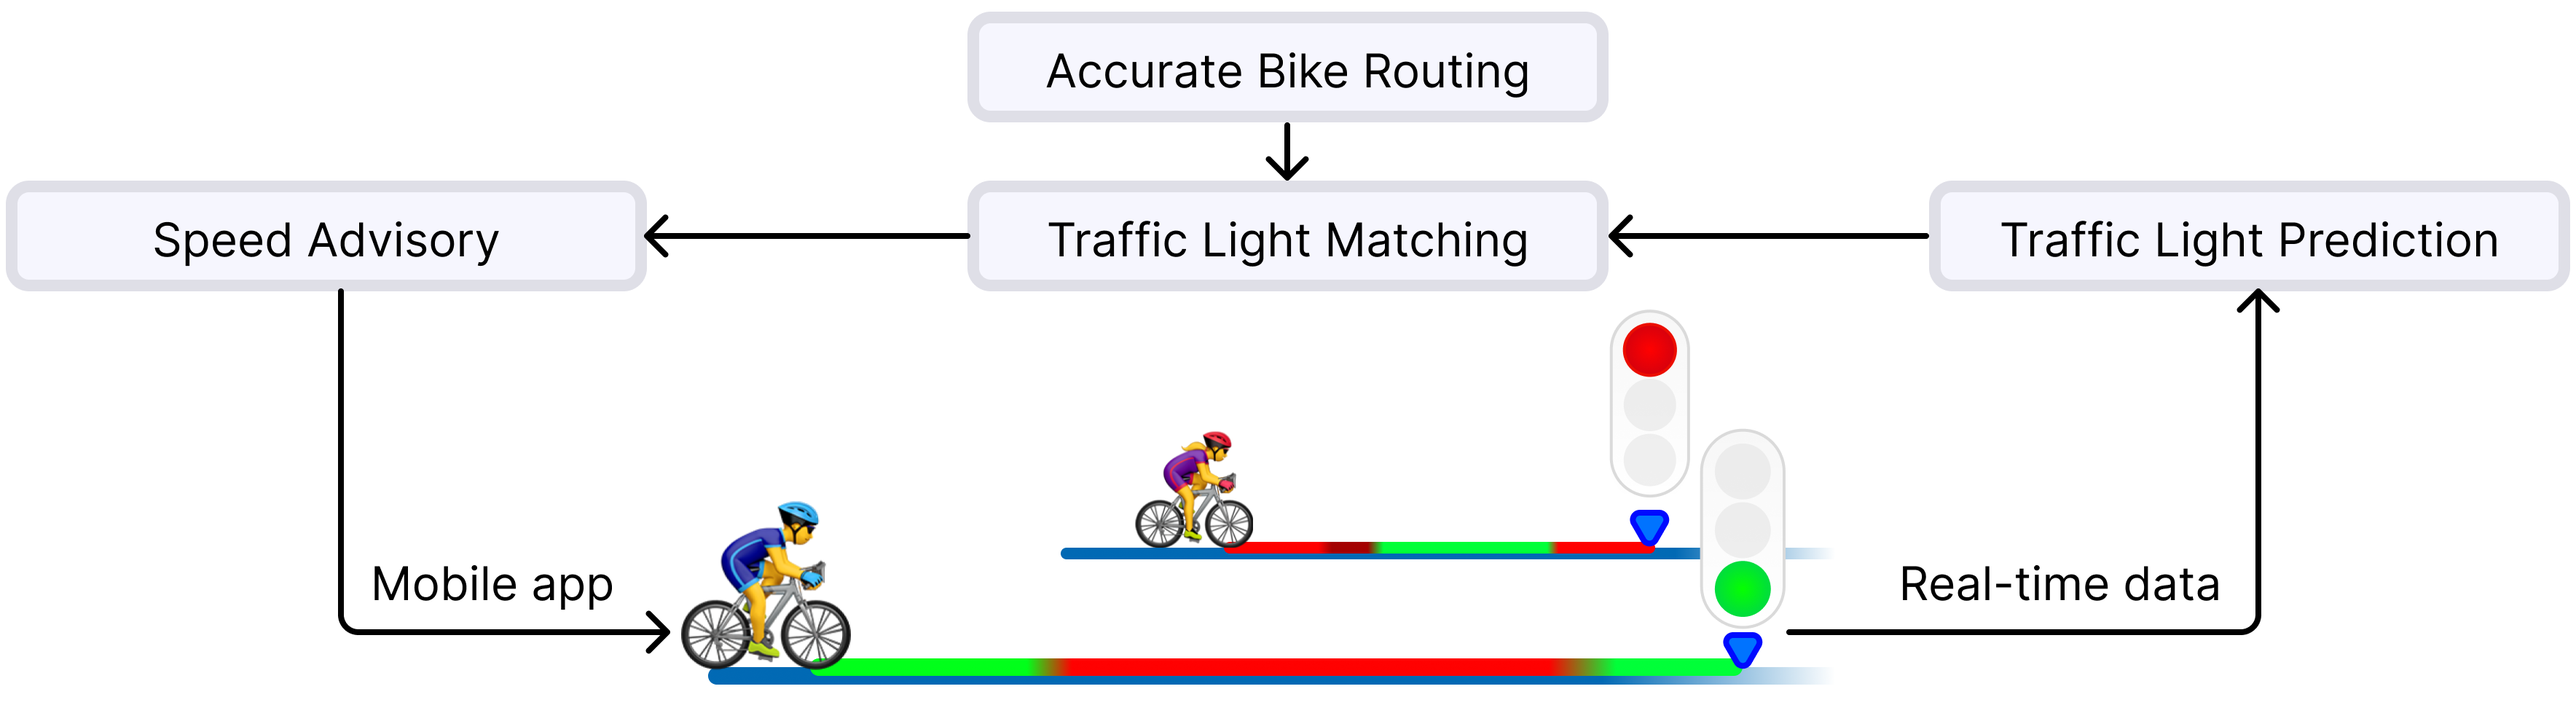
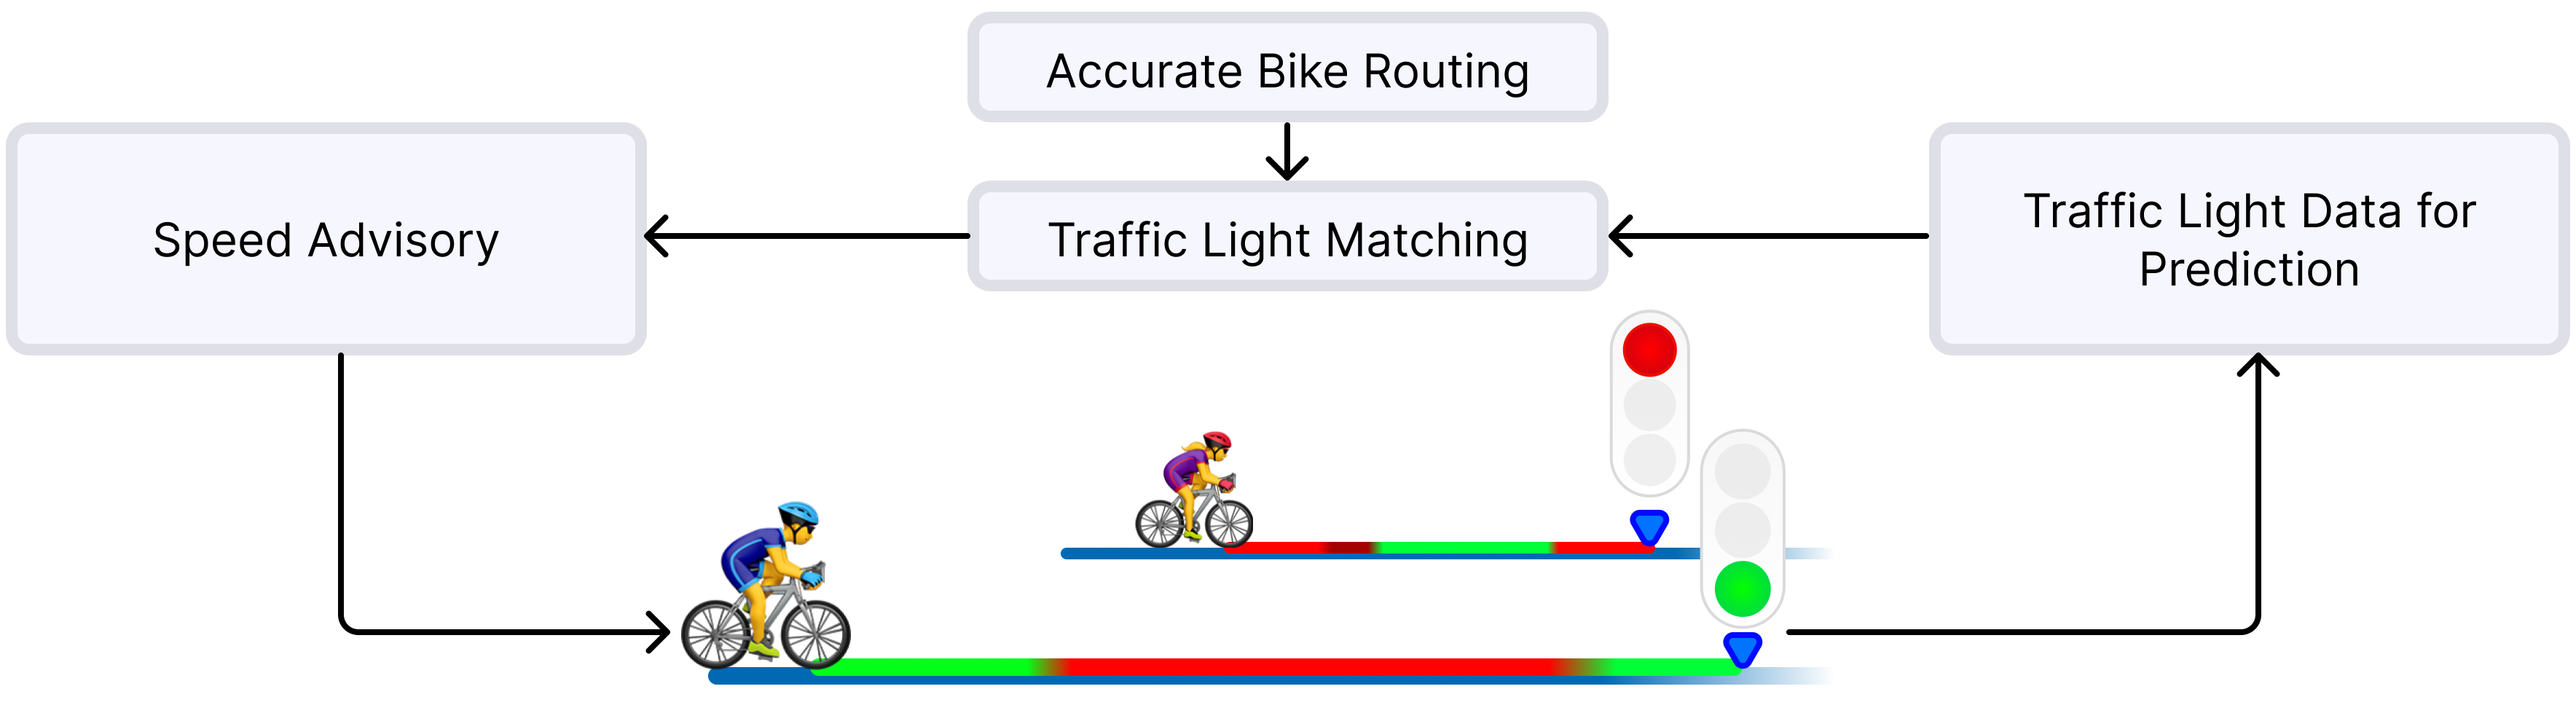
Update on Overleaf.

diff --git a/sections/app.tex b/sections/app.tex
@@ -477,7 +477,7 @@ These are just two examples. To obtain a more comprehensive understanding of the
 
 During this process, 915 (78.5\%) of the visualizations had equal, and 200 (17.2\%) had unequal labelings. In these cases, it was not easy to distinguish whether an adaption had happened or would have been possible. Sometimes, such as in \Cref{fig:example-trajectory-not-adapted}, the suggested speed for catching the green phase fell below 10 km/h, rendering the target speed so minimal that users had no practical means of adhering to it. Therefore, while adaptation could have been possible in theory, its practicality in these cases was subject to debate. In the remaining 50 cases (4.3\%), only one person had labeled the visualization, meaning that a cross-checking was not possible. These cases were also excluded from further analysis.
 
-\begin{table}[t]
+\begin{table}[!b]
 \centering
 \resizebox{\linewidth}{!}{\begin{tabular}{@{}llr@{}}
 \toprule
@@ -503,18 +503,20 @@ In addition to our previous results, the labeling study also shows that in 45.45
 
 Before we conclude, we have to consider one more aspect of the previous measurements. In the previous measurements, we distinguished between cases with and without adherence to the green phase in the speed advisory. However, we also have to consider a few limitations of this approach. Something it does not consider is how the traffic light itself may have impacted the cyclist's behavior. This means that a green light itself may have motivated cyclists to accelerate, and a red light itself may have led to the earlier decrease in speed. These aspects may be overlayed onto our twofold impact. 
 
-\begin{figure}[!b]
+\begin{figure}[t]
 \caption{Distribution of colors on which the speedometer needle was positioned during the approach. This illustration also shows how much users adapt to a green phase after activation when they are currently in a red phase (left charts). In the right charts, it can be seen that users did adapt much less to a green phase after activation, which is the behavior we wanted to separate by our adherence metric. Approaches shorter than the displayed ranges are omitted here. Black indicates that there was no color, meaning the speed is outside the range of the prediction on the speedometer.}\label{fig:impact-adherence-discussion}
 \includegraphics[width=\linewidth]{images/impacts-activation-time.pdf} 
 \\
 \includegraphics[width=\linewidth]{images/impacts-activation-distance.pdf}
 \end{figure}
 
-As seen in \Cref{fig:impact-adherence-discussion}, there may also be the case that cyclists occasionally already traveled at the right speed, not needing to adapt to the speed advisory. This can be seen in the left two figures where shortly after activation, a larger proportion of cases 
+\Cref{fig:impact-adherence-discussion} highlights the distribution of colors over which the speedometer needle was positioned after activation of the speed advisory. In the left two figures, it can be seen that there were more cases where the speedometer needle was placed on green at the time of activation (leftmost part on the x-axis), compared to the two right figures in which a larger part of users started with the speedometer needle positioned over red. 
 
-One potential solution for future works would be to employ a control group, by hiding a speed advisory occasionally from users. This control group could then be used to distinguish the speed advisory's impact from other context factors. Whether hiding speed advisories from users is a sensible thing to do remains another question to consider.
+This shows that, through the separation in adherence and non-adherence, we have also separated cases in which cyclists already traveled at the right speed. In these cases it is hard to distinguish whether a true adaption, by keeping the initial speed intentionally to catch the green phase, has happened. In theory, it could also be that users ignored the speed advisory and simply kept going without a change in behavior. This effect has to be considered when interpreting our impact measurements. 
 
-However, there are also many examples in which the speedometer needle was on red after activation of the speed advisory, and users then adjusted their speed to align with a predicted green phase. From this pattern, we can see that some form of adaptation happened. Interestingly, this adaption also happens gradually, which may have been caused by the general freedom of the users to follow the speed advisory. This can be seen in \Cref{fig:impact-adherence-discussion}, where no clear time at which users react to the speed advisory can be distinguished. Thus, we could not directly identify a specific time it takes users to process the app's recommendation and react to it.
+To rule out measuring coincidentally passed green lights without a true adaption, one potential solution for future works would be to employ a control group by hiding a speed advisory occasionally from users. This control group could then be used to distinguish the speed advisory's impact from coincidental passes or even the influence of the traffic light's color itself on the user. Whether hiding speed advisories from users is a sensible thing to do remains another question to consider. In our case, we refrained from doing so, to not further decrease the speed advisory availability that would have impacted our usability measurement.
+
+However, there are also many examples in which the speedometer needle was on red after activation of the speed advisory, and users then seemed to adjust their speed to align with a predicted green phase. From this pattern, we can see that some form of adaptation happened. Interestingly, this adaption also happens gradually, which may have been caused by the general freedom of the users to follow the speed advisory. This can be seen in \Cref{fig:impact-adherence-discussion}, where no clear time at which users react to the speed advisory can be distinguished. Thus, we could not directly identify a specific time it takes users to process the app's recommendation and react to it.
 
 \begin{Summary}[Summary and Discussion of Results]
 By conducting a comprehensive, user-diverse, and long-term test of the developed GLOSA app in Hamburg, we have gained fundamental insights into the performance of a real-world GLOSA system for cyclists within an extensive urban context. These insights encompass both user opinions and quantifiable metrics regarding the measured impact on passing speed, stop rate, stop time, and estimated energy expenditure.

diff --git a/sections/introduction.tex b/sections/introduction.tex
@@ -66,7 +66,7 @@ Apart from the general lack of focus on cyclists, the research domain surroundin
 \label{fig:outline}
 \end{figure}
 
-\textbf{\color{cidarkblue}Traffic Light Data for Prediction:} To provide a speed advisory for an upcoming traffic light, a prediction of the traffic light's switching behavior is required. Data from traffic lights all over the city must be collected and processed accordingly. Afterward, the collected data must be transformed into a traffic light prediction. Since a traffic light's switching behavior may depend highly on the current time and day and the detected traffic density, a reliable and accurate prediction is challenging. Furthermore, there may be data outages or errors in the streamed data, which reduce the quality and trustworthiness of the prediction. Highly accurate and trustworthy predictions are paramount for the overall effectiveness of the speed advisory.
+\textbf{\color{cidarkblue}Traffic Light Data for Prediction:} To provide a speed advisory for an upcoming traffic light, a prediction of the traffic light's switching behavior is required. This prediction depends on data from traffic lights all over the city that must be collected and processed accordingly. However, this data may be unreliable and contain errors, potentially leading to a false prediction. Errors in the data must be identified and, if possible, solved. Furthermore, there may be intersections at which traffic influences the switching behavior of the traffic lights, decreasing the predictability further. A key challenge is to identify these intersections and, in general, measure how predictable the traffic lights are to judge how suitable a city such as Hamburg is for the deployment of a GLOSA system.
 
 \textbf{\color{cidarkblue}Traffic Light Matching:} The next challenge is about displaying the prediction for the correct traffic light. With many potential route choices in a vast city such as Hamburg, an automated method to match traffic lights along the way is needed. It is necessary to select a few from thousands of traffic lights, turning the traffic light matching into a search for needles in the haystack. Which traffic lights should be matched depends highly on the user's planned turns and other factors like the type of transport mode. In our case, cyclist traffic lights should be preferred. Due to the often ambiguous choice of traffic lights at an intersection, the matching algorithm has to consider multiple variants and decide on the best traffic lights. Additionally, the matching must be quick and reasonable to provide a responsive mobile application.
 
@@ -76,9 +76,11 @@ Apart from the general lack of focus on cyclists, the research domain surroundin
 
 Each of the presented four challenges represents one step in the ladder, which needs to be taken to ultimately judge the purposefulness of GLOSA applications in motivating more cycling.
 
-\section{Contributions and Research Questions}
+\section{Contributions and Outline}
 
+Each chapter in this thesis is self-contained and follows one described challenge along the processing chain of a GLOSA system. As such, each chapter can also be read separately and makes its own contributions. The first key contribution is as follows.
 
+\textbf{\color{cidarkblue}Methods for Traffic Light Data Quality Assurance and Predictability Analysis:} In \Cref{ch:prediction}, we provide insights into obtaining traffic light data and which quality assurance measures are suitable to improve the stability and service quality of GLOSA applications. We integrate a monitoring solution into an existing data and prediction pipeline for Hamburg, studying prediction quality and availability over a long-term period. We find that traffic light data is often unreliable and identify systematic data errors in Hamburg's data pipeline. We show that data error robustness is an essential perk for prediction algorithms, which have previously mainly focused on obtaining the highest accuracy. With these insights, our work contributes to the general understanding which aspects are import
 
 \section{How to Read This Thesis}
 
